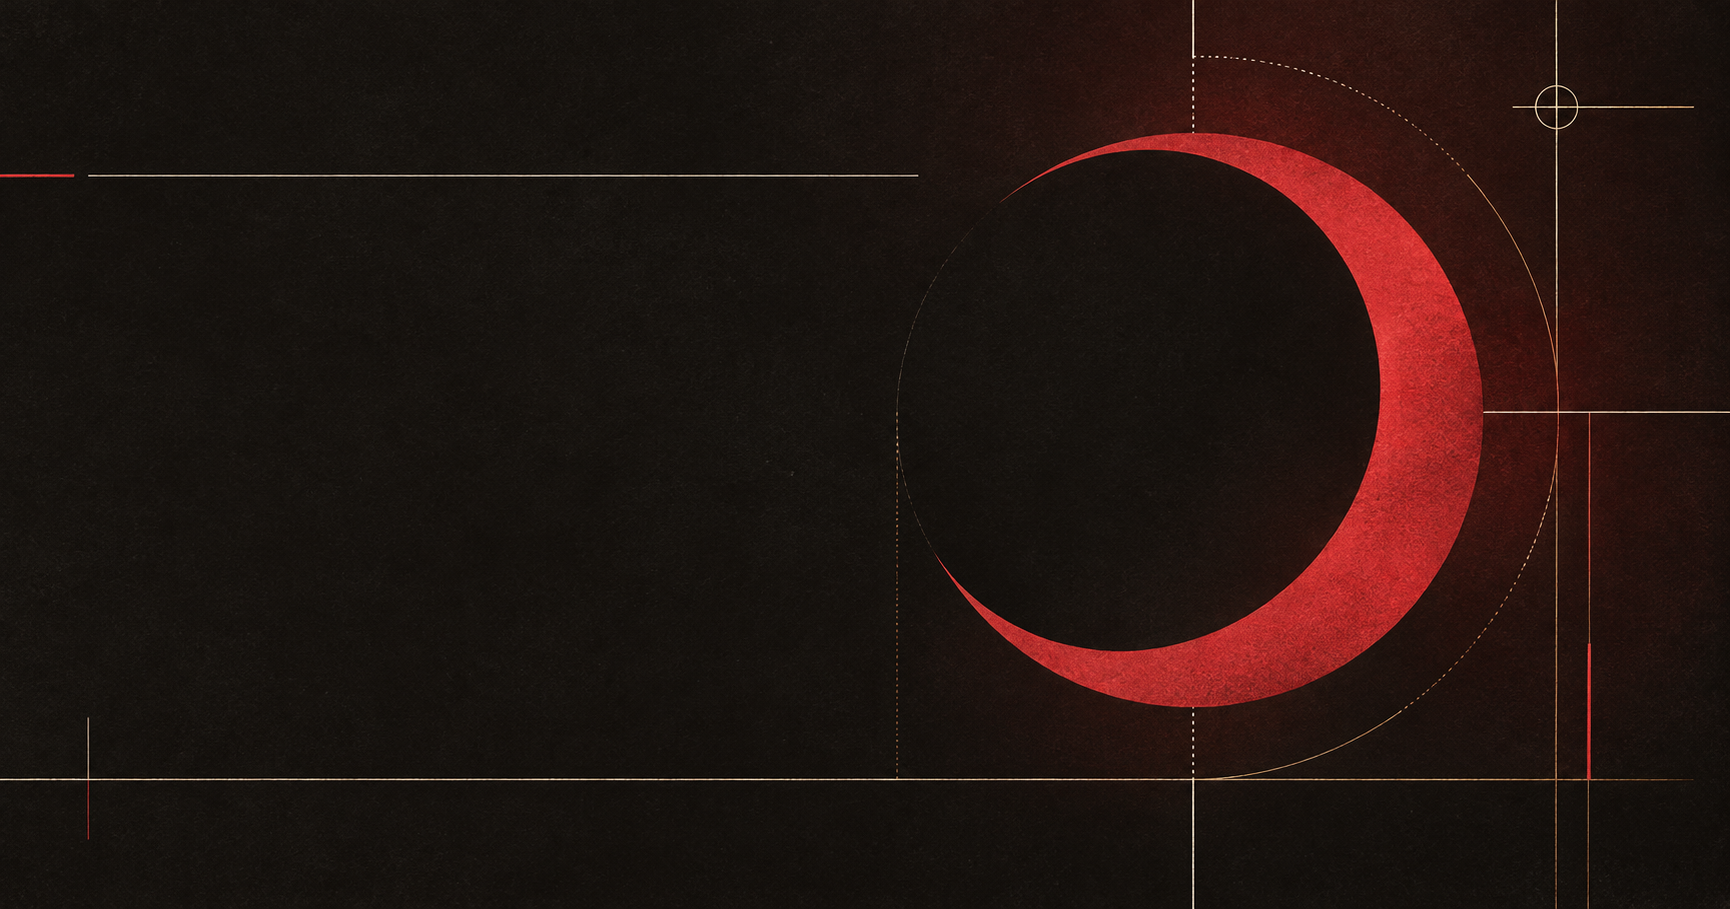
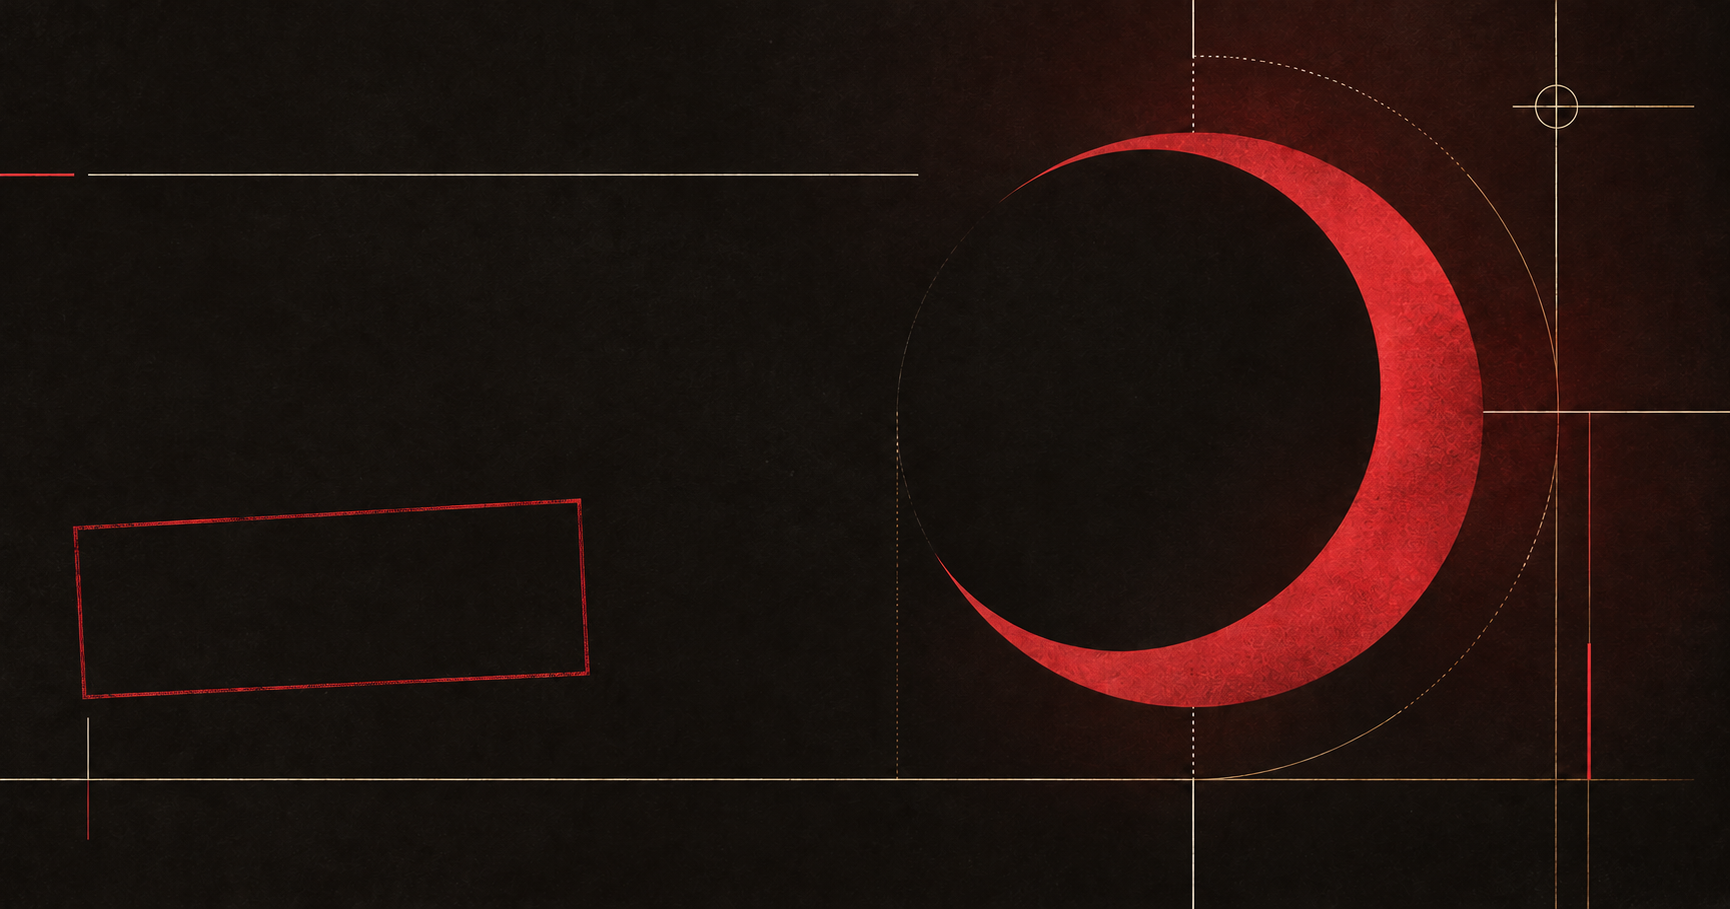
공유 이미지에 CASE FILE 스타일 적용

diff --git a/src/worker.js b/src/worker.js
@@ -637,27 +637,25 @@ async function socialImageResponse(request, env, requestedCode = "") {
         color: "#eee7dc",
         size: language === "en" ? 62 : 68,
       }),
-      { left: 72, top: 62 },
+      { left: 72, top: 48 },
     );
-    if (code) {
-      image = image
-        .draw(
-          env.IMAGES.text(language === "en" ? "ROOM CODE" : "초대 코드", {
-            font,
-            color: "#b89a66",
-            size: language === "en" ? 25 : 27,
-          }),
-          { left: 74, bottom: 110 },
-        )
-        .draw(
-          env.IMAGES.text(code, {
-            font,
-            color: "#eee7dc",
-            size: 68,
-          }),
-          { left: 72, bottom: 30 },
-        );
-    }
+    image = image
+      .draw(
+        env.IMAGES.text("CASE FILE", {
+          font: englishFont,
+          color: "#c93442",
+          size: 24,
+        }),
+        { left: 76, top: 365 },
+      )
+      .draw(
+        env.IMAGES.text(code || "00:00", {
+          font: englishFont,
+          color: "#e25b67",
+          size: code ? 62 : 56,
+        }),
+        { left: 72, top: 402 },
+      );
     const response = (
       await image.output({ format: "image/jpeg", quality: 90 })
     ).response();

diff --git a/test/pages.test.js b/test/pages.test.js
@@ -146,6 +146,7 @@ test("search metadata, sitemap, verification, and private room indexing rules ar
   );
   assert.match(worker, /"x-robots-tag": "noindex"/);
   assert.match(worker, /socialImageResponse/);
+  assert.match(worker, /env\.IMAGES\.text\("CASE FILE"/);
   assert.match(worker, /\["\/rules\.html", "\/pages\/ko\/rules\.html"\]/);
   assert.match(worker, /\["\/en\/rules\.html", "\/pages\/en\/rules\.html"\]/);
 
